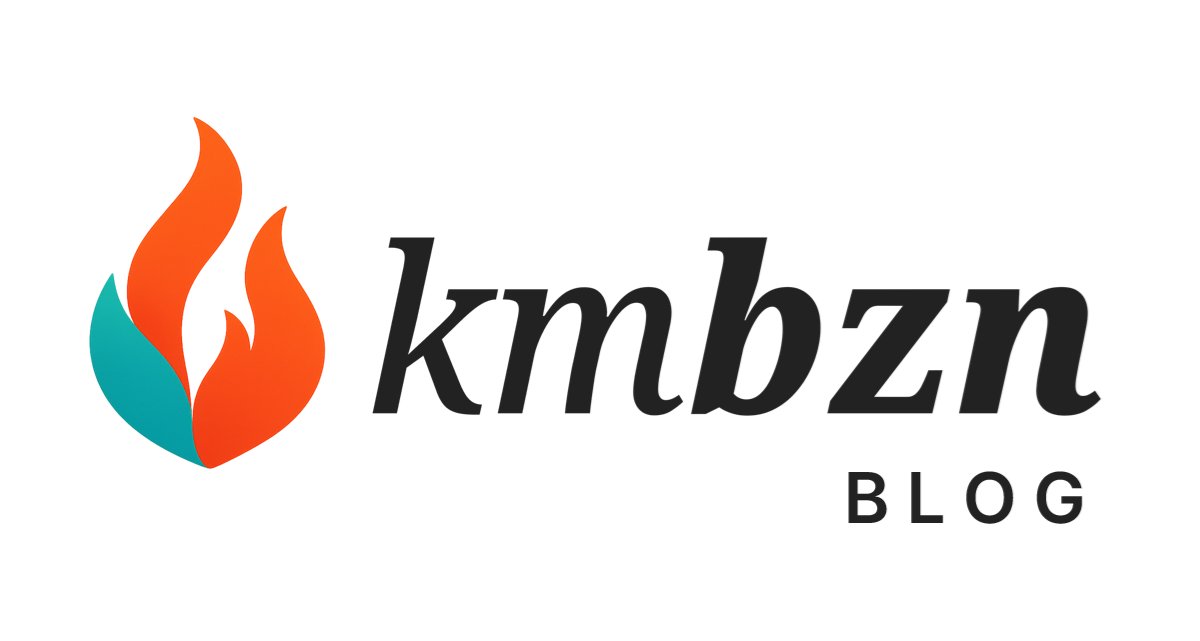
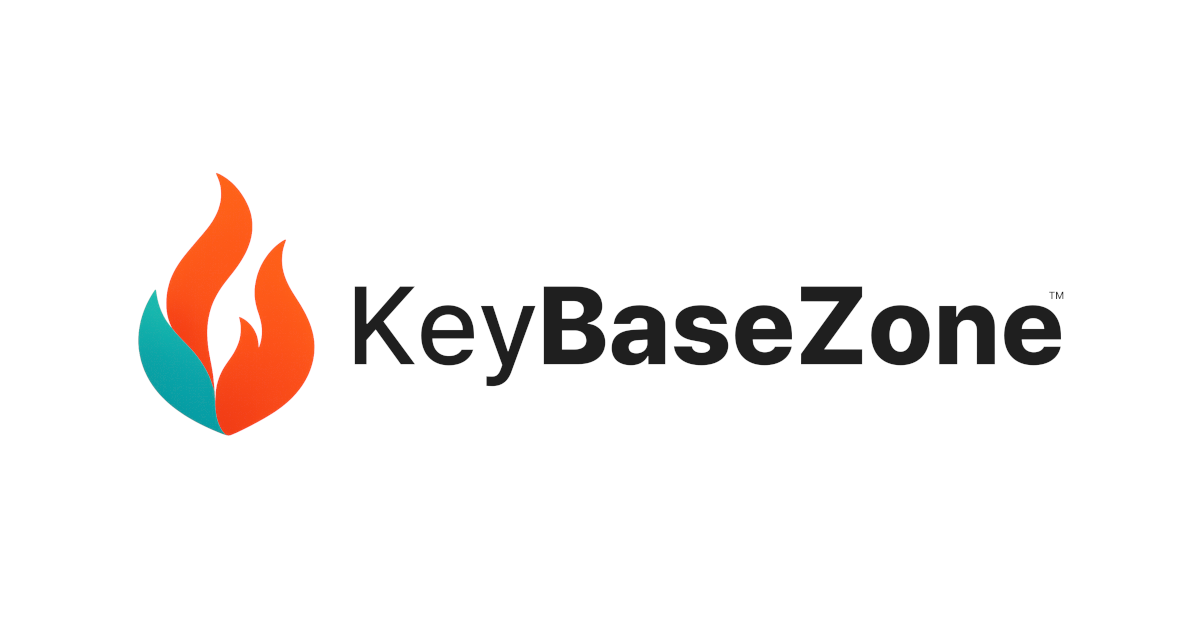
change image

Changed region(s): [[0.0617, 0.1872, 0.925, 0.7488], [0.7092, 0.7176, 0.925, 0.8424]]

diff --git a/docs/.vuepress/config.js b/docs/.vuepress/config.js
@@ -14,7 +14,7 @@ export default defineUserConfig({
   base: '/',
   head: [
     ['link', { rel: 'stylesheet', href: 'https://cdn.jsdelivr.net/npm/katex@0.16.9/dist/katex.min.css' }],
-    ['meta', { property: 'og:description', content: 'by kmbzn' }],
+    ['meta', { property: 'og:description', content: 'KeyBaseZone' }],
     ['meta', { property: 'og:image', content: 'https://kmbzn.com/images/og-home.png' }],
     ['link', { rel: 'icon', type: 'image/x-icon', href: '/images/favicon.ico' }],
     ['link', { rel: 'icon', type: 'image/png', sizes: '16x16', href: '/images/favicon-16x16.png' }],
